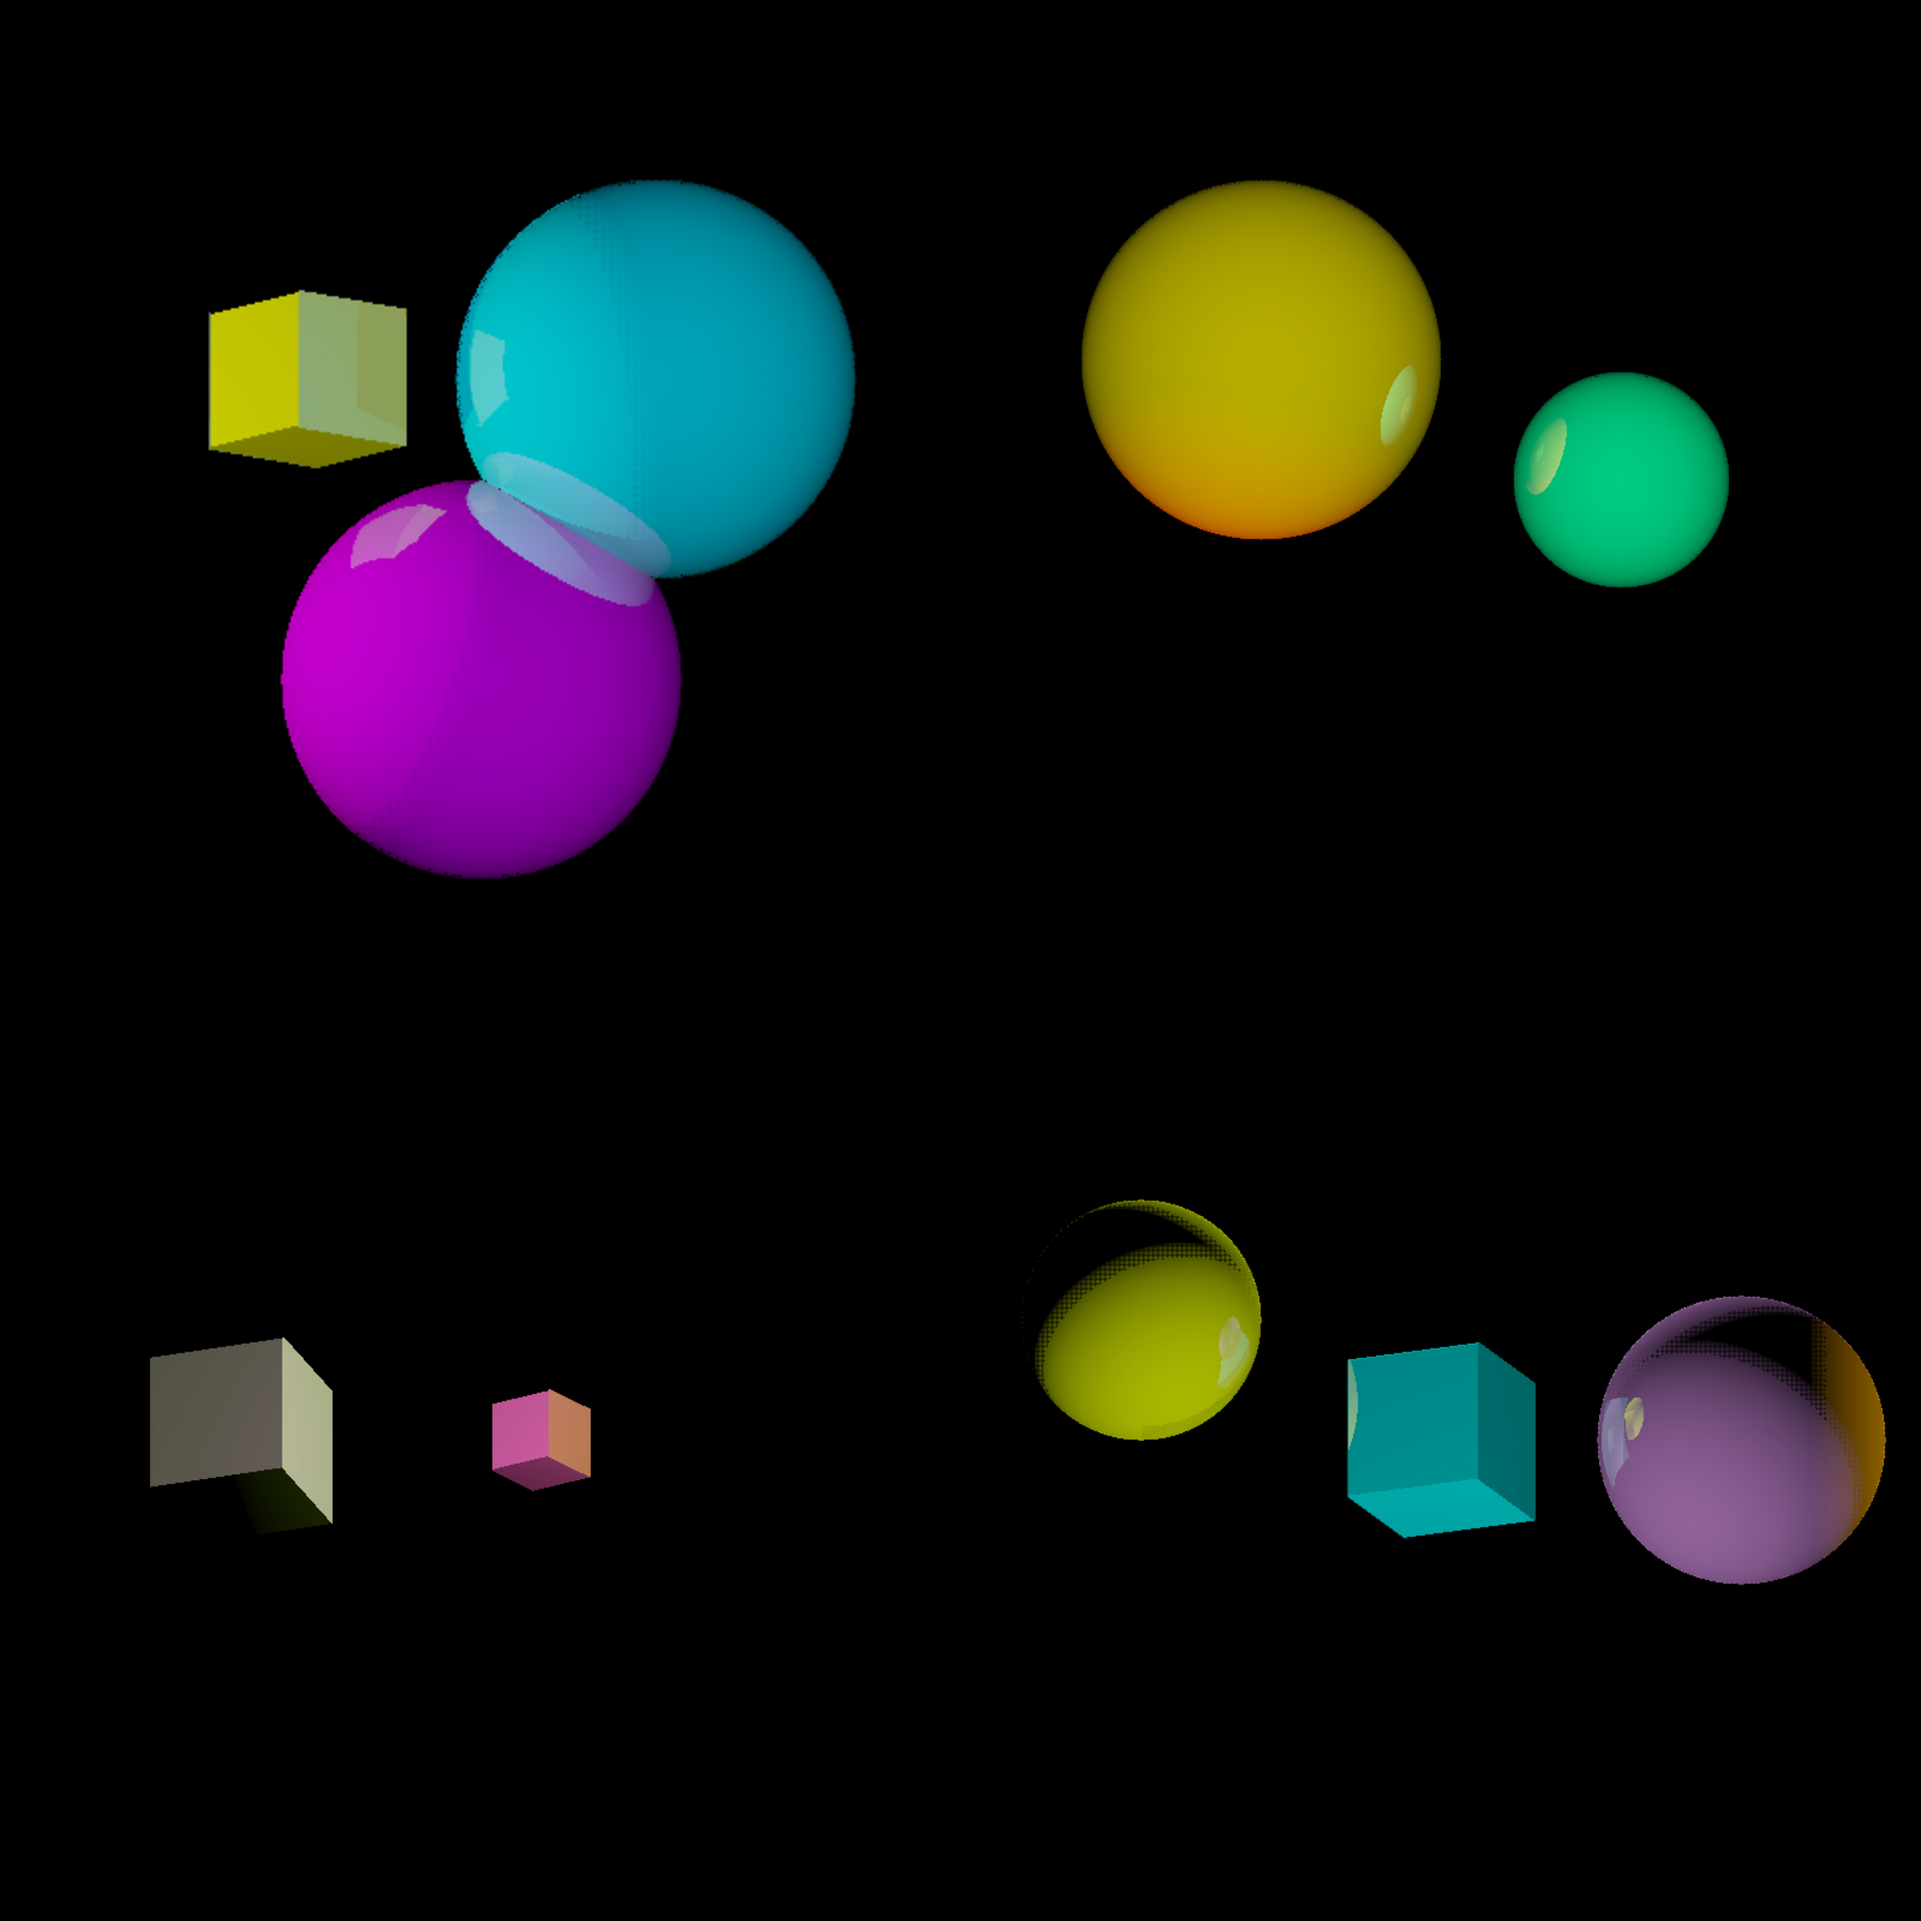
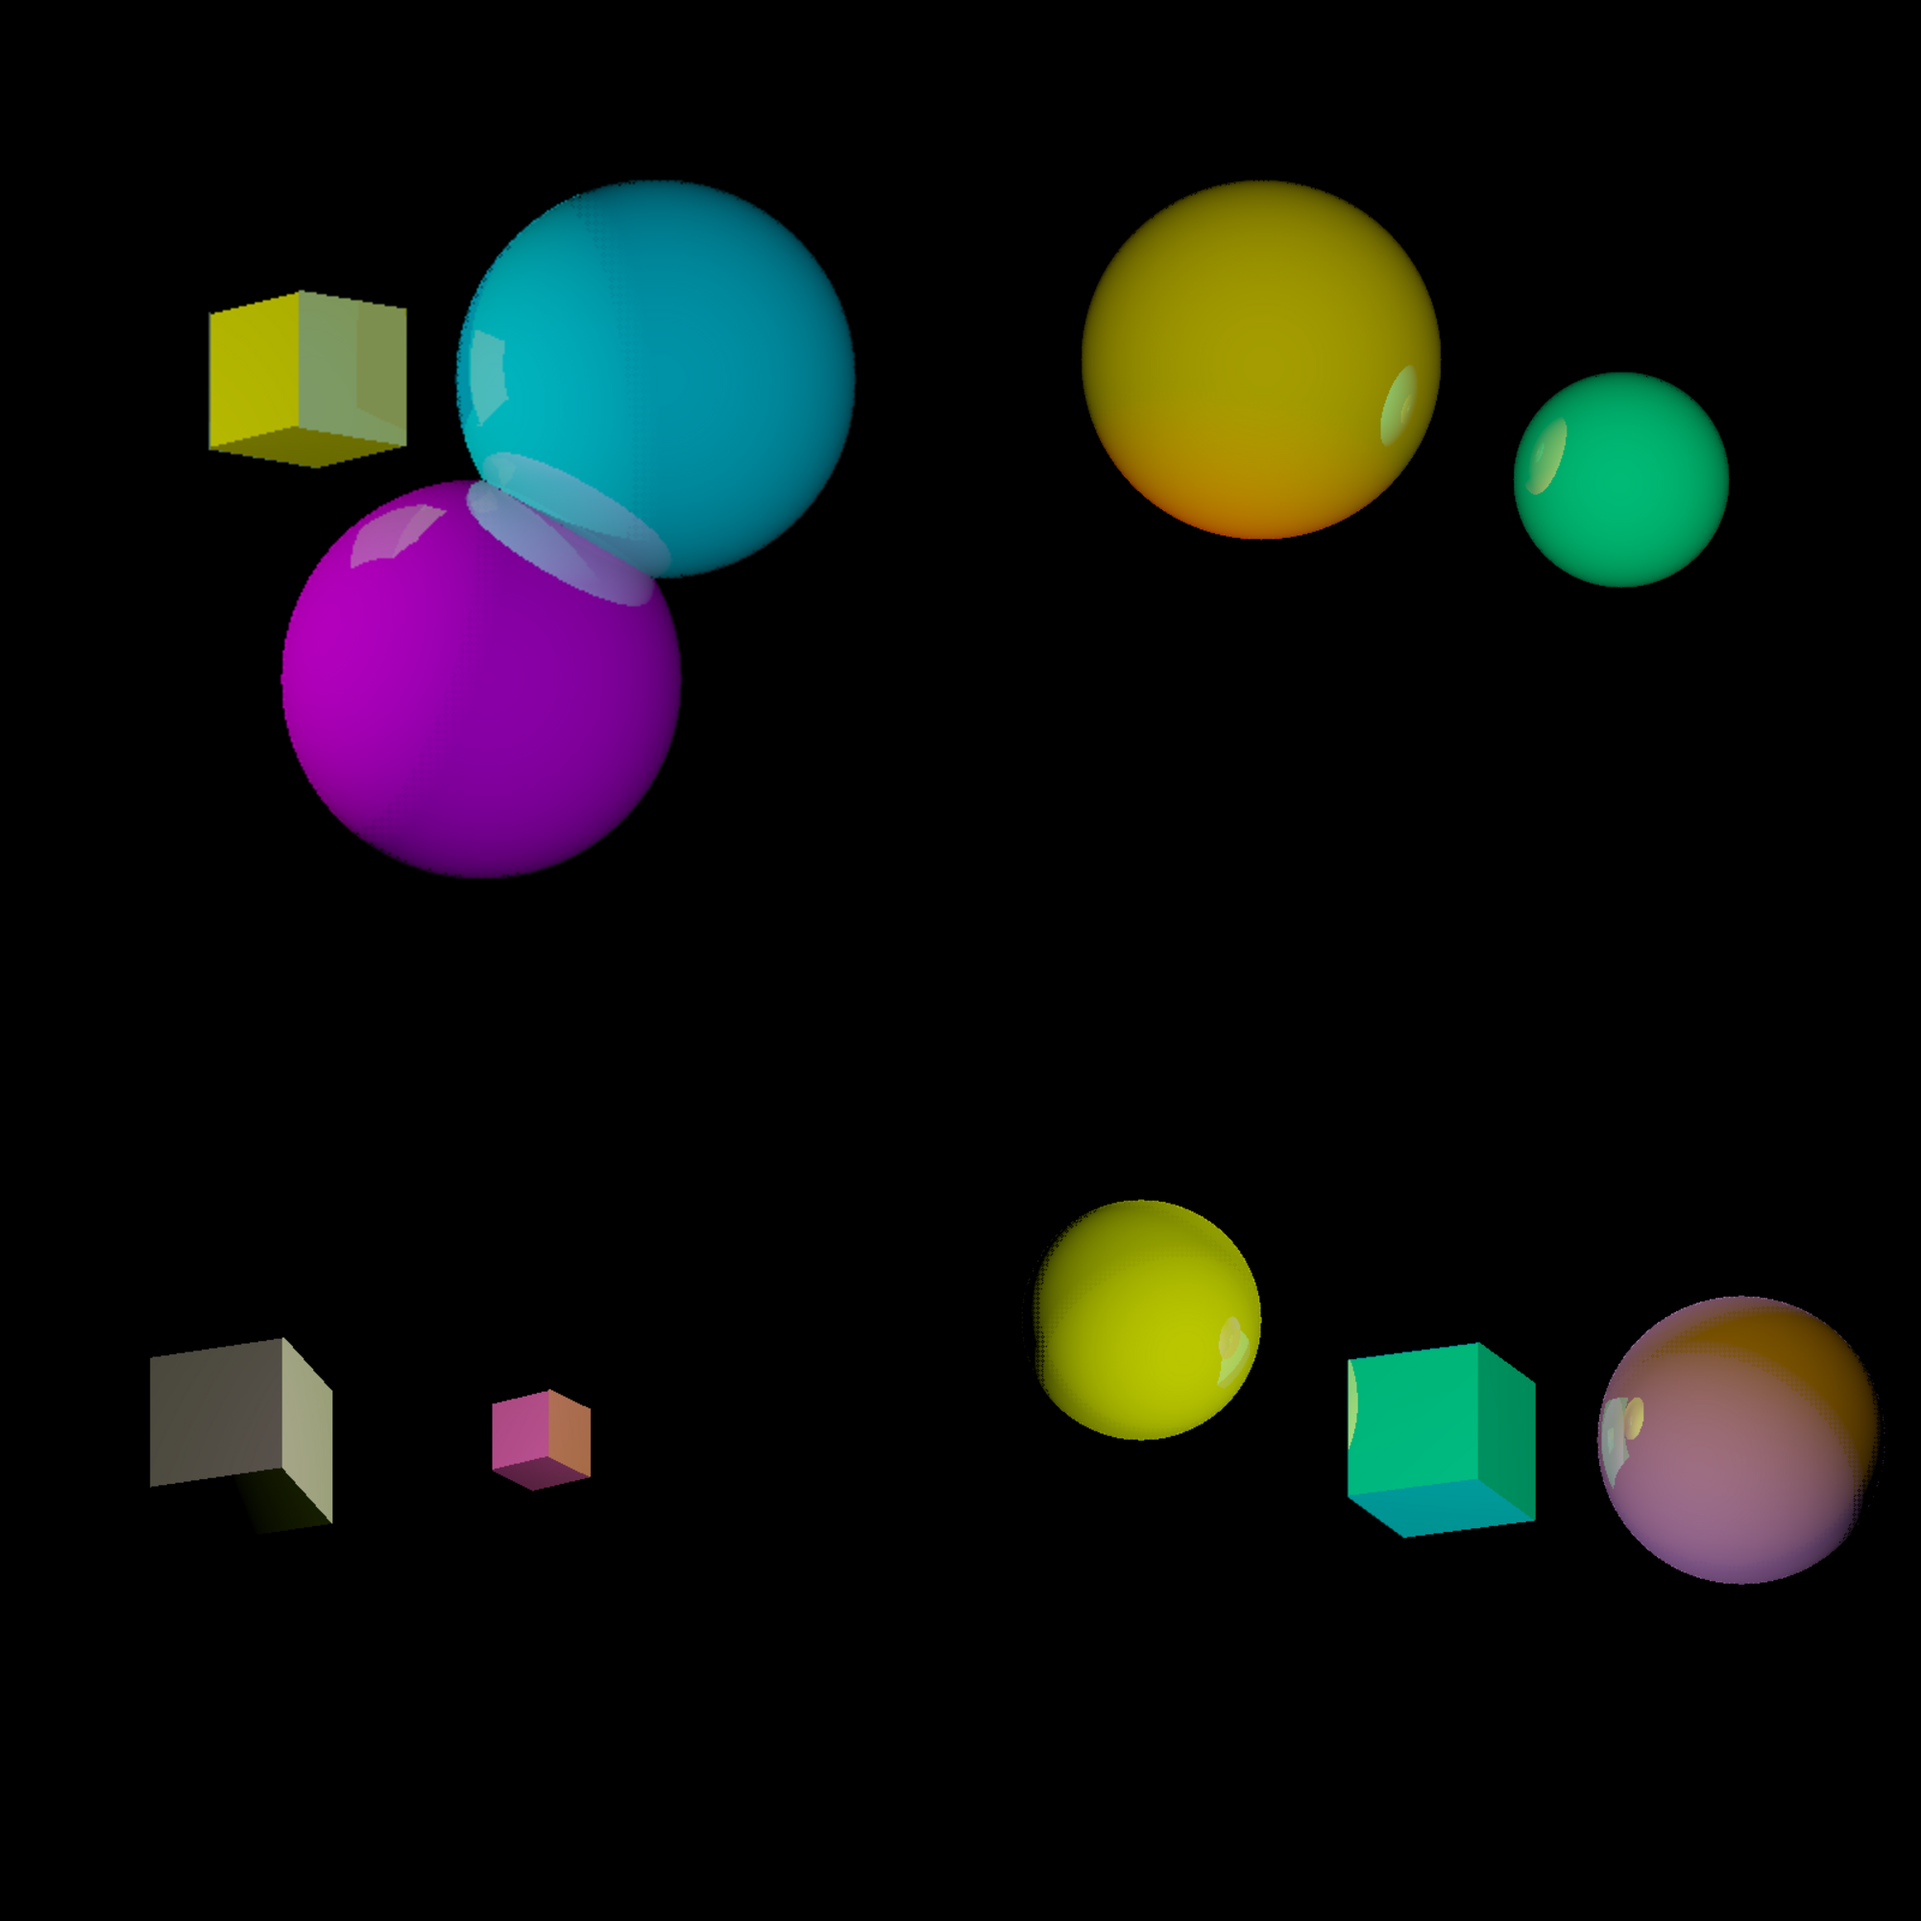
readme enfin à peu près à jour

Changed region(s): [[0.837, 0.651, 0.992, 0.806], [0.682, 0.682, 0.806, 0.806], [0.527, 0.62, 0.651, 0.713]]

diff --git a/src/cpp/raytracer.cpp b/src/cpp/raytracer.cpp
@@ -146,7 +146,8 @@ using namespace std;
      while ((coef > 0.0f) && (level < 20));   
 
     
-       float exposure = - 0.66f;
+    // modification de l'exposition : On définit le terme exposure comme on l'entend entre 0 et -1
+      float exposure =  - 0.5f;
       blue = 1.0f - expf(blue * exposure);
       red = 1.0f - expf(red * exposure);
       green = 1.0f - expf(green * exposure);

diff --git a/README.md b/README.md
@@ -60,22 +60,22 @@ Les scènes sont définies en **.txt** selon le format suivant :
 ```txt
 640 480                            
 3 3 2                             
-1.0 1.0 0.0 0.5                    
-0.0 1.0 1.0 0.5                   
-1.0 0.0 1.0 0.5                   
-233.0 290.0 0.0 100 0 sphere 0    
-407.0 290.0 0.0 100 1 sphere 0   
-320.0 140.0 0.0 100 2 sphere 0     
-0.0 240.0 -100.0 1.0 1.0 1.0 
+1.0 1.0 0.0 0.1                    
+0.0 1.0 1.0 0.8                   
+1.0 0.0 1.0 0.7                   
+233.0 290.0 0.0 100 0 sphere 0 0   
+407.0 290.0 0.0 100 1 cube  42 23 
+320.0 140.0 0.0 100 2 sphere 0 0    
+0.0   240.0 -100.0 1.0 1.0 1.0 
 640.0 240.0 -10000.0 0.6 0.7 1.0
 ```
 
 ## Fonctionnement de l'algorithme
 
 1. Nous commencons par lire le fichier texte et placer les informations de la scène dans 3 listes (fonction `init()` de _main.cpp_ ) :
-    - Les informations de chaque matériau sont dans la matrice matTab : **matTab[i]** contient les infos sur le matériau d'indice _i_.
-    - Les informations de chaque objet sont dans la matrice objTab : **objTab[i]** contient les infos sur l'objet d'indice _i_.
-    - Les informations de chaque lumière sont dans la matrice lgtTab : **lgtTab[i]** contient les infos sur la lumière d'indice _i_.
+    - Les informations de chaque matériau sont dans la matrice _matTab_ : **matTab[i]** contient les infos sur le matériau d'indice _i_.
+    - Les informations de chaque objet sont dans la matrice _objTab_ : **objTab[i]** contient les infos sur l'objet d'indice _i_.
+    - Les informations de chaque lumière sont dans la matrice _lgtTab_ : **lgtTab[i]** contient les infos sur la lumière d'indice _i_.
 
 2. On construit une image au format **TGA** (fonction `header_tga()` de _tga_image.hpp_ ) :
     - Les premiers octets de du fichier sont écrits de facon bien spécifique pour que le fichier soit considéré comme un .tga.
@@ -83,11 +83,19 @@ Les scènes sont définies en **.txt** selon le format suivant :
     - Les pixels sont coloriés **ligne par ligne, de gauche à droite, en partant de la ligne du bas**.
     - Dans notre algorithme, on parcourt donc pour chaque y, tous les x, en partant de (x,y) = (0,0) (_lignes 28-29 de raytracer.cpp_)
 
-3. Pour "parcourir" les pixels, on envoie un rayon horizontal d'origine (x,y). 
+3. Pour "parcourir" les pixels, voici comment on procède. Pour chaque pixel de coordonnées (x,y), on envoie un rayon horizontal d'origine (x,y) partant d'un z à l'infini. 
     - Si ce rayon touche un objet, alors on note le pixel (x,y) comme faisant partie de l'objet de plus proche que le rayon a traversé.
-    - Pour tester l'intersection rayon-objet, on utilise les fonctions `hitSphere()` et `hitCube()`.
-    - Selon le type d'objet trouvé, on calcule le vecteur normal à la surface dont le pixel actue fait partie.
-    - On fait alors partir un rayon depuis cette surface jusqu'à chaque source lumineuse une par une.
+    - Pour tester l'intersection rayon-objet, on utilise les fonctions `hitSphere()` et `hitCube()` décrites dans _objects.hpp_.
+    - Selon le type d'objet trouvé, on calcule le vecteur normal à la surface dont le pixel actuel fait partie. On calcule aussi le point d'intersection rayon-objet par la même occasion.
 
-4. Pour "colorier" les pixels, on utilise la technique de ...
-    - A completer mais flemme pour l'instant
+4. Pour "enfin" faire du RayTracing, voici la méthode (_cf. à partir de la ligne 90 de raytracer.cpp_) :
+    - Pour chaque lumière :
+        - Depuis chaque point d'intersection, on crée un rayon allant du point à la lumière.
+        - Si ce rayon touche un objet : Le point est dans l'ombre de la lumière. On ne fait rien et on passe à la lumière suivante
+        - Sinon, on calcule les valeurs RGB du pixel avec la méthode de Lambert.
+        - On met ensuite à jour le rayon en utilisant les principes de la reflection, et on recommence.
+        - On s'arrete quand notre coefficient de reflection devient trop faible, ou quand on a atteint le max d'itérations (noté _level_).
+
+5. On a enfin fait des modifications d'exposition et une tranformation gamma pour augmenter la qualité des images.
+
+Mais on a surtout appliqué de l'**antialiasing** : PARTIE DE AXEL
